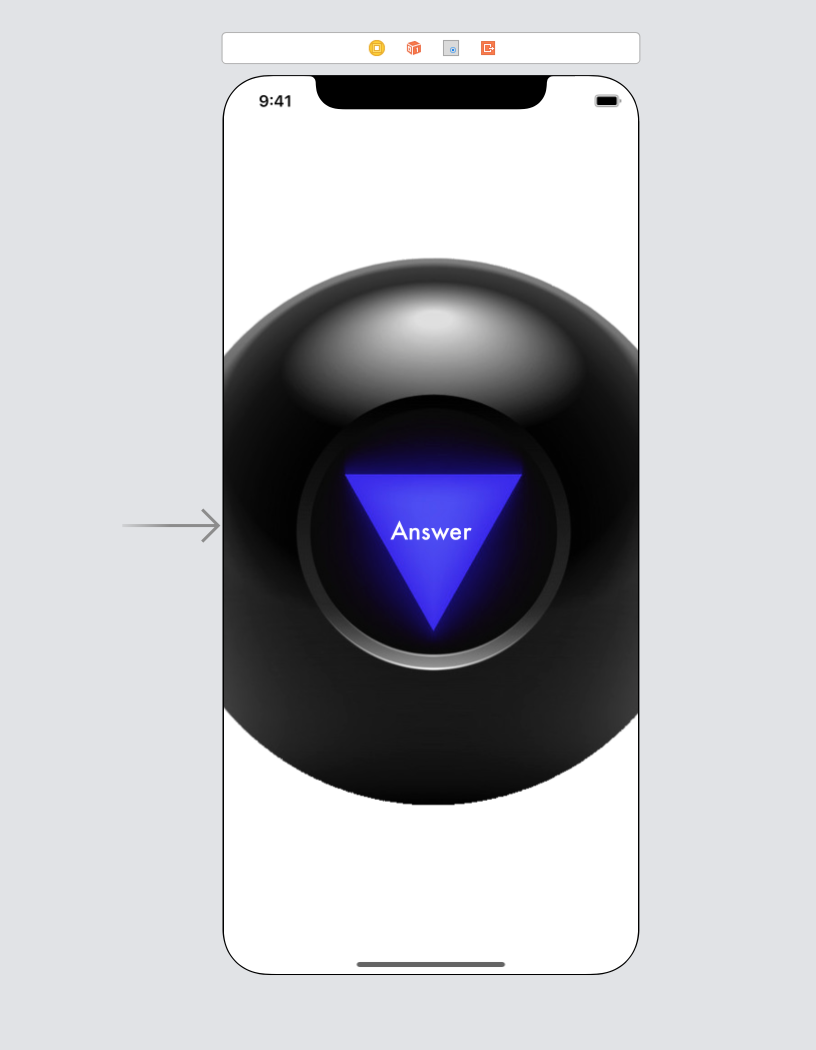
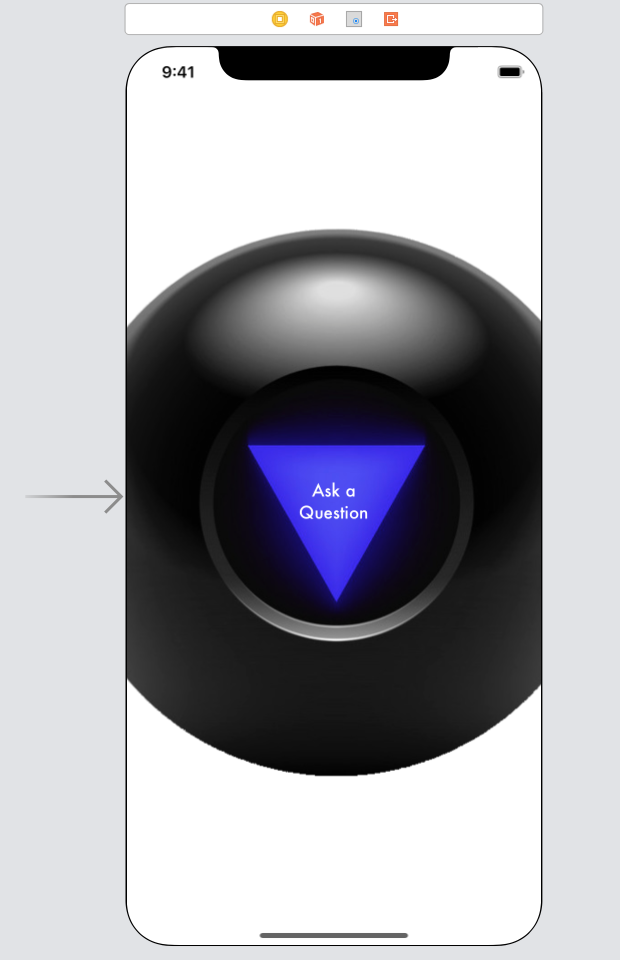
Update README

diff --git a/Fundamentals.playground/Contents.swift b/Fundamentals.playground/Contents.swift
@@ -23,6 +23,9 @@ import UIKit
 // Exercise 7: Create a function that takes an array of places and returns "Hello, ___!", filling the blank with a random element of the given array.
 
 
+// To make it fancier, pass two arguments: the array of places and a boolean. The boolean will determine if the the string returned will say "Good Morning, ___" or "Good Evening, __ ".
+
+
 /**************************
     Extra exercises
 ***************************/

diff --git a/README.md b/README.md
@@ -26,6 +26,7 @@ Environment Requirements:
         - [Dictionaries](#dictionaries)
     - [For-loops](#for-loops)
         - [__Exercise 6__](#exercise-6)
+    - [If-Else](#if-else)
     - [Functions](#functions)
         - [Anatomy of a function](#anatomy-of-a-function)
         - [__Exercise 7__](#exercise-7)
@@ -38,6 +39,7 @@ Environment Requirements:
     - [Build the Magic 8 Ball](#build-the-magic-8-ball)
         - [Set up the view](#set-up-the-view)
         - [Set up the logic](#set-up-the-logic)
+        - [Some extra fun](#some-extra-fun)
 
 <!-- /TOC -->
 
@@ -217,19 +219,31 @@ print(dictionary.values)
 `keys` and `values` can be iterated over like arrays.
 
 ## For-loops
+For loops are a great way to iterate through arrays or other collections.
+
+There are several ways to do a for-loop.
+
+1. You can define one by declaring a variable that holds the current value in the iteration. In this example, `item` will first hold "Thing 1', run the code inside the for loop. Once the code inside the for loop is done, it will hold "Thing 2" and so on, until the array is exhausted.
 ```swift
+let arrayOfThings = ["Thing 1", "Thing 2", "Thing 3"]
 for item in arrayOfThings {
     print(item)
 }
-
+```
+2. You can define a for-loop using a range of indices. Here `i` represents the index we're currently on, and the range is defined with `0...5` which means the range from 0 to 5, inclusive.
+```swift
 for i in 0...5 {
     print(i)
 }
-
+```
+3. You can also define the range different in the example below. The range is defined as `0..<6`, which includes all values from 0 (inclusive) to just less than 6.
+```swift
 for j in 0..<6 {
     print(j)
 }
-
+```
+4. You can also iterate through a dictionary.
+```swift
 for (key, value) in dictionaryOfThings {
     print("Key: \(key), Value: \(value))
 }
@@ -239,6 +253,16 @@ for (key, value) in dictionaryOfThings {
 Use a for-loop to print out "Hello, __!" for each place in your array from Exercise 4
 
 -----
+## If-Else
+It's common to want to perform different actions depending on a true/false check. The best way to do so is through an if-else statement.
+```swift
+let sum = a + b
+if sum > 5 {
+    print("The sum is greater than 5")
+} else {
+    print("The sum is less than or equal to 5")
+}
+```
 ## Functions
 Functions are a great way to compartmentalize code into chunks.
 
@@ -275,13 +299,16 @@ printHelloWorld() // Hello, World!
 ```
 -----
 ### __Exercise 7__
-Create a function that takes an array of places and returns "Hello, ___!", filling the blank with a random element of the given array.
+Create a function that takes an array of places and returns "Hello, ___!", filling the blank with a random element of the given array. 
+
+To make it fancier, pass two arguments: the array of places and a boolean. The boolean will determine if the the string returned will say "Good Morning, ___" or "Good Evening, __ ".
 
 -----
 
-## [Learn more Swift](https://docs.swift.org/swift-book/LanguageGuide/TheBasics.html)
+## Learn more Swift
 
-There are extra exercises included in `Fundamentals.playground`
+* Check out [Swift.org Basics] to learn more Swift(https://docs.swift.org/swift-book/LanguageGuide/TheBasics.html)
+* There are extra exercises included in `Fundamentals.playground`
 
 # Storyboards
 We'll get back to Swift in a bit. For now, let's look at some storyboards.
@@ -301,7 +328,7 @@ You can also open/close the navigator, the debugger, and inspectors on the top r
 1. Open your navigator and find `Main.storyboard`. 
     * Note the View Controller that has been created for you.
     * The arrow on the left indicates that this is the initial view controller.
-    * Note the editor has an added panel with the contents of your storyboard
+    * Note the editor has an added panel with the contents of your storyboard. This is called your __Document Outline__
     * Note the inspectors panel has more inspectors available.
 2. Open the Library to add something to your view.
 ![Storyboard](./imgs/storyboard.png)
@@ -321,13 +348,14 @@ At the bottom of the storyboard, you should have a device for the current storyb
 I'm guessing the label doesn't seem to be in the right place anymore.
 
 ### Anatomy of a constraint
-You can set constraints based off of attributes of two views. There are constants you can add or subtract relative to these attributes and use multipliers to base it off of a view's size.
+You can set constraints based off of attributes of two views. A constraint represents a relationship between those two views. You can use constants to add or subtract relative to these attributes and use multipliers to base it off of one of the views' size.
 
-![anatomy of constraint](./imgs/constraint-anatomy.png)
+![anatomy of constraint](./imgs/constraint-anatomy.png =400x)
+
 
 Views have several attributes you can use to create constraints.
 
-![view attributes](./imgs/constraints.png)
+![view attributes](./imgs/constraints.png =400x)
 
 You can write code to define these constraints, but interface builder has made it easy to create them.
 
@@ -337,9 +365,11 @@ So let's play around with constraints!
 
 1. In your storyboard, hold down Ctrl and drag between your label and the main view. A drop down menu should appear with options for constraints based on the attributes of your label and the main view.
 2. Select `Center Horizontally in Safe Area`
-3. Once you set your first constraint, Interface Builder will now start bugging you until you set __all the constraints required__. That's what that red arrow means.
-![storyboard constraints](./imgs/storyboard_constraints.png)
-You'll also note that constraints are now showing in the storyboard's document outline.
+3. Once you set your first constraint, Interface Builder will now start bugging you until you set __all the constraints required__. That's what that red arrow means. You'll also note that constraints are now showing in the storyboard's document outline.
+
+![storyboard constraints](./imgs/storyboard_constraints.png =400x)
+
+
 4. Continue and make another constraint by following step 1 again and selecting `Center Vertically in Safe Area`
 5. The arrow should turn yellow/orange meaning the item is just misplaced, but we've defined enough constraints for it to build. Click on the yellow arrow, and fix the misplacement.
 6. Run your app again.
@@ -356,15 +386,17 @@ Okay, time to build a Magic 8 Ball App.
     3. Equal Widths
     4. Equal Heights
 3. Reorder the different views in the document outline. Put the imageview behind the label by placing it between the safe area and the label.
-4. Select the image view in the document outline and open the attributes inspector the image. You'll note that at the top, there's an option to select an image.
+4. Select the image view in the document outline and open the attributes inspector. You'll note that at the top, there's an option to select an image.
 5. Select `Magic8_lg_margins` for the image. You should see the image for a Magic 8 Ball, but stretched in an odd way.
 6. Change `Content Mode` to `Aspect Fill`
 7. Select your "Hello, World!" label in the document outline
-8. In the attributes inspector, change the content of your label to "Answer", and change the font/text color to make it clearer.
-9. Pull up the library on more time, and drag in a `Tap Gesture Recognizer`. This won't be used until later.
+8. In the attributes inspector, change the content of your label to "Ask a Question", and change the font/text color to make it clearer.
+9. Feel free to change the constraints for the label to fit in the triangle.
+10. Pull up the library on more time, and drag in a `Tap Gesture Recognizer`. This won't be used until later.
 
 You should have something like this in the storyboard
-![Magic 8 Storyboard](./imgs/magic8_storyboard.png)
+![Magic 8 Storyboard](./imgs/magic8_storyboard.png =300x)
+
 
 ### Set up the logic
 1. With the storyboard still open, open the Assistant Editor. (Check the tools section if you can't find it)
@@ -387,5 +419,26 @@ Run your app. Try tapping on the screen of the simulator.
 ![Celebrate!](https://media.giphy.com/media/tLQfm7dmGqxfa/giphy.gif)
 
 YOU DID IT!
+
+### Some extra fun
+* Test out the label -- you may need to change the constraints to fit all possible strings.
+* Try using a shake gesture instead of a tap gesture 
+    1. Shake gestures are not available in the library, so you'll have to add `motionEnded` function to your `ViewController.swift`. The parent class of ViewController.swift is aware of motion events, and you can override it in your subclass.
+    ```swift
+    override func motionEnded(_ motion: UIEvent.EventSubtype, with event: UIEvent?) {
+        
+    }
+    ```
+    2. Inside this function, check if the `motion` argument passed in the function is equal to `.motionShake`. If so, change the answer label as you did for the tap gesture
+* Try connecting the image as an IBOutlet, and animating it when you shake/tap. 
+    1. If you haven't already, add the imageview as an interface builder outlet, like we did the label.
+    2. Create a new file in your navigator panel. 
+    3. Choose a regular Swift file. 
+    4. Name it `UIView+Animations.swift`
+    5. [Add this extension](https://gist.github.com/mourad-brahim/cf0bfe9bec5f33a6ea66) You'll want to add the correction for Swift 4. This creates a function `shake` available to all UIViews that animates a shake. 
+    6. This will give you one error -- change `kCAMediaTimingFunctionLinear` to `.linear` and you should be all set.
+    7. In the `motionEnded` function, right before you change the text in the label, call `shake` on your image view. This will trigger the animation.
+
+
 
 
